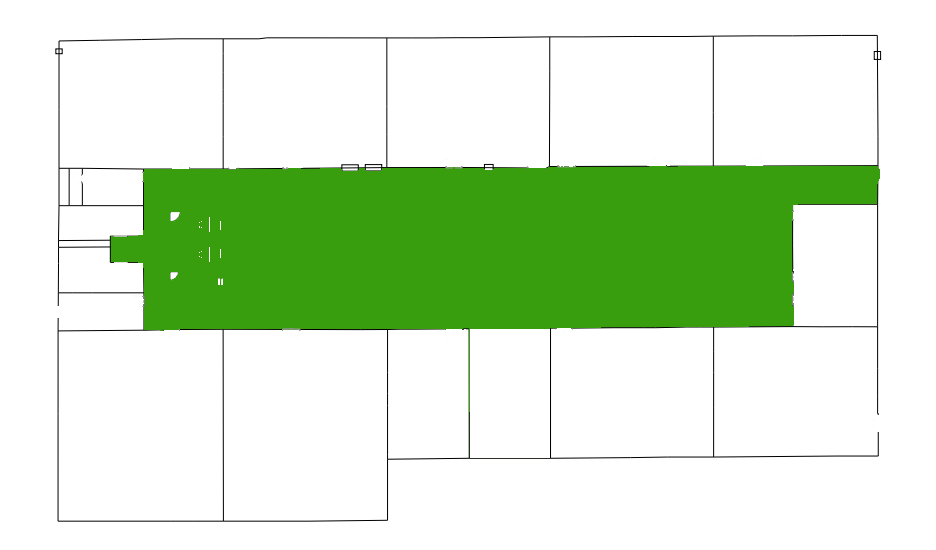
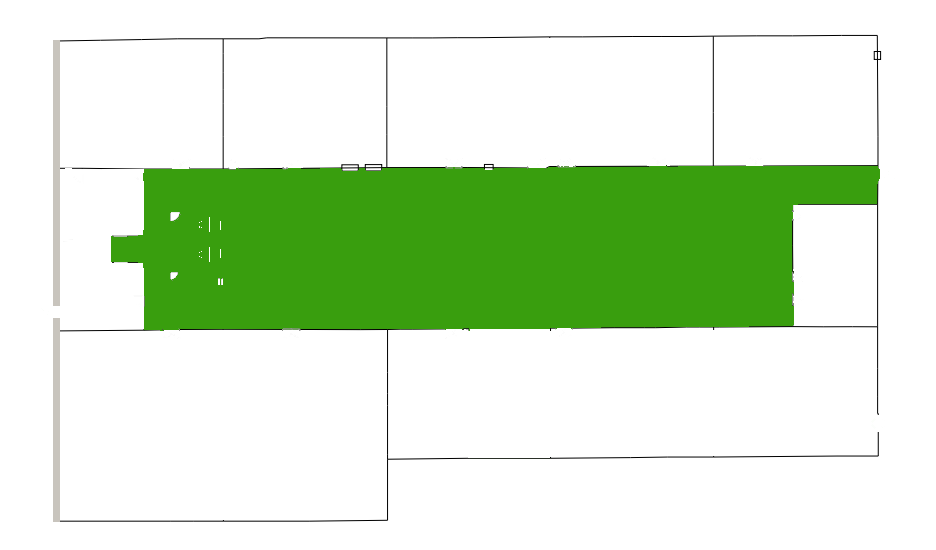
extra line

Changed region(s): [[0.031, 0.0618, 0.1549, 0.5564], [0.031, 0.5873, 0.062, 0.9582]]

diff --git a/app/(kiosk)/citizens-charter/citizens-charter-client.tsx b/app/(kiosk)/citizens-charter/citizens-charter-client.tsx
@@ -50,6 +50,7 @@ import {
 } from "@/features/kiosk/charter-quick-start";
 import { getKioskSessionId } from "@/features/kiosk/visit-tracking";
 import { formatPeso, totalCharterFees } from "@/features/citizens-charter/fees";
+import { getBoolSetting } from "@/features/settings/settings-helpers";
 import { useQuickStartVisits } from "@/components/kiosk/quick-start-visit-provider";
 import { pickLang, t, type Language } from "@/lib/i18n/translations";
 import { cn } from "@/lib/utils";
@@ -545,6 +546,8 @@ function OverviewView({
   const [emailSent, setEmailSent] = useState(false);
   const [coverLoaded, setCoverLoaded] = useState(false);
   const coverRef = useRef<HTMLImageElement>(null);
+  // Admin → Download Center → "Enable email delivery" also governs emailing the charter.
+  const [emailEnabled, setEmailEnabled] = useState(() => getBoolSetting(settings, "download_email_enabled"));
 
   useEffect(() => {
     if (coverRef.current?.complete) {
@@ -552,7 +555,27 @@ function OverviewView({
     }
   }, []);
 
+  useEffect(() => {
+    let cancelled = false;
+    void (async () => {
+      try {
+        const res = await kioskSyncFetch(`/api/downloads/delivery-settings?lang=${language}&t=${Date.now()}`, {
+          cache: "no-store",
+        });
+        if (!res.ok) return;
+        const data = (await res.json()) as { emailEnabled?: boolean };
+        if (!cancelled && typeof data.emailEnabled === "boolean") setEmailEnabled(data.emailEnabled);
+      } catch {
+        // Offline: keep the setting from the offline bundle.
+      }
+    })();
+    return () => {
+      cancelled = true;
+    };
+  }, [language]);
+
   function openEmailDialog() {
+    if (!emailEnabled) return;
     setEmail("");
     setEmailSent(false);
     setEmailSending(false);
@@ -659,7 +682,7 @@ function OverviewView({
                 "Kompletong Citizens' Charter"
               )}
             </p>
-            {edition.pdfUrl ? (
+            {edition.pdfUrl && emailEnabled ? (
               <button
                 type="button"
                 onClick={openEmailDialog}
@@ -670,6 +693,13 @@ function OverviewView({
                 <span className="font-normal text-slate-300">|</span>
                 <span className="font-medium text-slate-500">5.3 MB</span>
               </button>
+            ) : edition.pdfUrl ? (
+              <div className="mt-3 flex h-10 w-full items-center justify-center gap-2 rounded-full bg-[#f1f5f9] text-[13px] font-semibold text-slate-500">
+                <FileText className="h-4 w-4 text-slate-400" />
+                <span>{pickLang(language, "PDF Document", "Dokumentong PDF", "Dokumento nga PDF")}</span>
+                <span className="font-normal text-slate-300">|</span>
+                <span className="font-medium text-slate-400">5.3 MB</span>
+              </div>
             ) : null}
           </div>
         </article>

diff --git a/features/citizens-charter/email-charter-pdf.ts b/features/citizens-charter/email-charter-pdf.ts
@@ -3,10 +3,11 @@ import {
   interpolateDownloadTemplate,
 } from "@/features/downloads/download-settings";
 import { assertDownloadFileAvailable } from "@/features/downloads/file-resolver";
-import { getBoolSetting, getResolvedSettings } from "@/features/settings/resolve-settings";
+import { getBoolSetting, getNumberSetting, getResolvedSettings } from "@/features/settings/resolve-settings";
 import type { Language } from "@/lib/i18n/translations";
 import { db } from "@/lib/db";
 import { buildPublicAppUrl, resolvePublicAppBaseUrl } from "@/lib/public-app-url";
+import { createSpacesSignedUrl } from "@/lib/storage/spaces";
 
 export async function sendCharterPdfByEmail(
   email: string,
@@ -52,10 +53,13 @@ export async function sendCharterPdfByEmail(
     `${edition.title || "Citizens' Charter"} ${edition.year}` +
     (edition.editionLabel ? ` (${edition.editionLabel})` : "");
 
-  const baseUrl = resolvePublicAppBaseUrl({ settings, requestOrigin, clientOrigin });
-  const downloadUrl = baseUrl
-    ? buildPublicAppUrl(baseUrl, "/api/citizens-charter/pdf")
-    : "";
+  // Recipients open the link from anywhere, so a PDF on Spaces links straight to Spaces.
+  const expiryMinutes = Math.max(5, getNumberSetting(settings, "download_qr_expiry_minutes", 60));
+  const spacesUrl = await createSpacesSignedUrl(settings, edition.pdfUrl, {
+    expiresInSeconds: expiryMinutes * 60,
+  });
+  const baseUrl = spacesUrl ? "" : resolvePublicAppBaseUrl({ settings, requestOrigin, clientOrigin });
+  const downloadUrl = spacesUrl ?? (baseUrl ? buildPublicAppUrl(baseUrl, "/api/citizens-charter/pdf") : "");
 
   const { sendDownloadEmail } = await import("@/features/downloads/email-service");
 
@@ -65,7 +69,9 @@ export async function sendCharterPdfByEmail(
     downloadUrl,
   });
   if (downloadUrl && !delivery.emailBody.includes("{{downloadUrl}}")) {
-    body += `\n\nView or download online:\n${downloadUrl}`;
+    body += spacesUrl
+      ? `\n\nView or download online (valid ${expiryMinutes} minutes):\n${downloadUrl}`
+      : `\n\nView or download online:\n${downloadUrl}`;
   }
 
   await sendDownloadEmail({

diff --git a/components/kiosk/image-plan-extruded-room.tsx b/components/kiosk/image-plan-extruded-room.tsx
@@ -1462,6 +1462,14 @@ function ImagePlanExtrudedRoomView({
   const y0 = FLOOR_LAYERS.roomFloorY;
   const comfortLabel = !!node.label?.endsWith("Comfort Room");
   const riseDelay = riseDelayFor(node.id);
+  // The comfort room is several volumes (male, passage, female); its name sits over the whole block.
+  const comfortCenter: [number, number] = comfortLabel
+    ? (() => {
+        const xs = volumes.flatMap((part) => [part.position[0] - part.size[0] / 2, part.position[0] + part.size[0] / 2]);
+        const zs = volumes.flatMap((part) => [part.position[2] - part.size[2] / 2, part.position[2] + part.size[2] / 2]);
+        return [(Math.min(...xs) + Math.max(...xs)) / 2, (Math.min(...zs) + Math.max(...zs)) / 2];
+      })()
+    : [0, 0];
 
   return (
     <group position={position}>
@@ -1519,6 +1527,21 @@ function ImagePlanExtrudedRoomView({
             ) : null
           )
         : null}
+      {comfortLabel && !hideLabel ? (
+        <Html
+          position={[comfortCenter[0], y0 + labelHeight + 0.28, comfortCenter[1]]}
+          center
+          zIndexRange={[30, 0]}
+          style={{ pointerEvents: "none" }}
+        >
+          <div
+            className="select-none text-center text-[18px] font-extrabold leading-tight tracking-tight text-[#1a2744]"
+            style={{ width: "6rem", textShadow: "0 1px 0 #fff, 0 0 10px rgba(255,255,255,0.98)" }}
+          >
+            {localizePlaceLabel("Comfort Room", language)}
+          </div>
+        </Html>
+      ) : null}
       {!comfortLabel && (node.type === "room" || node.type === "elevator") && node.label && !hideLabel ? (
         <Html
           position={[0, y0 + labelHeight + 0.28, 0]}

diff --git a/features/downloads/download-service.ts b/features/downloads/download-service.ts
@@ -151,10 +151,13 @@ export async function sendDownloadByEmail(
   );
   const expiresAt = new Date(Date.now() + expiryMinutes * 60 * 1000);
   const token = generateToken();
-  const baseUrl = resolvePublicBaseUrl(settings, requestOrigin, clientOrigin);
-  const downloadUrl = baseUrl
-    ? buildPublicAppUrl(baseUrl, `/api/downloads/file/${token}`)
-    : "";
+  // Recipients open the link from anywhere, so files on Spaces link straight to Spaces.
+  const spacesUrl = await createSpacesSignedUrl(settings, download.fileUrl, {
+    expiresInSeconds: expiryMinutes * 60,
+  });
+  const baseUrl = spacesUrl ? "" : resolvePublicBaseUrl(settings, requestOrigin, clientOrigin);
+  const downloadUrl =
+    spacesUrl ?? (baseUrl ? buildPublicAppUrl(baseUrl, `/api/downloads/file/${token}`) : "");
 
   const { sendDownloadEmail } = await import("@/features/downloads/email-service");
   const title = localized(download, lang, "title");

diff --git a/features/building-directory/navigation/capitol-ground-graph.ts b/features/building-directory/navigation/capitol-ground-graph.ts
@@ -1,7 +1,7 @@
 import type { FloorPlanConfig, NavigationGraph, NavEdge, NavNode } from "./types";
 
-export const CAPITOL_GROUND_FLOOR_PLAN_URL = "/images/indoor-plans/capitol-ground-floor.png?v=4";
-export const CAPITOL_UPPER_FLOOR_PLAN_URL = "/images/indoor-plans/capitol-upper-floor.png?v=5";
+export const CAPITOL_GROUND_FLOOR_PLAN_URL = "/images/indoor-plans/capitol-ground-floor.png?v=10";
+export const CAPITOL_UPPER_FLOOR_PLAN_URL = "/images/indoor-plans/capitol-upper-floor.png?v=10";
 export const CAPITOL_GROUND_FLOOR_WIDTH = 936;
 export const CAPITOL_GROUND_FLOOR_HEIGHT = 550;
 

diff --git a/features/admin/settings-definitions.ts b/features/admin/settings-definitions.ts
@@ -173,7 +173,8 @@ export const SETTING_GROUPS: SettingGroupDef[] = [
         key: "download_email_enabled",
         label: "Enable email delivery",
         type: "boolean",
-        description: "Allow visitors to receive files by email from the kiosk.",
+        description:
+          "Allow visitors to receive files by email from the kiosk (Download Center files and the Citizens' Charter PDF). Turn off to hide every email option.",
       },
       {
         key: "download_qr_expiry_minutes",

diff --git a/components/kiosk/building-3d-scene.tsx b/components/kiosk/building-3d-scene.tsx
@@ -904,7 +904,8 @@ export function Building3DScene({
           if (/kiosk/i.test(`${node.id} ${node.locationId ?? ""}`)) {
             return null;
           }
-          if (node.type === "entrance") {
+          // The plan already shows these (doorways, the "FIRE EXIT" floor text); a box would stick out of the wall.
+          if (node.type === "entrance" || node.type === "emergency_exit") {
             return null;
           }
           if (node.type === "staircase") {
